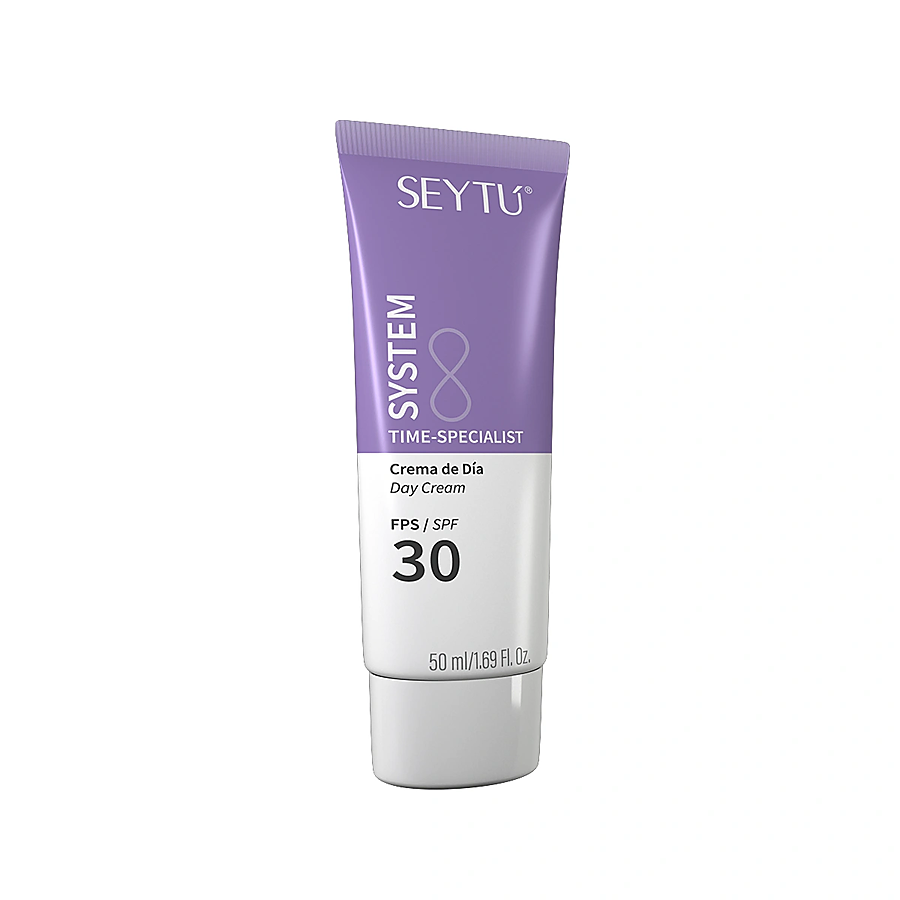
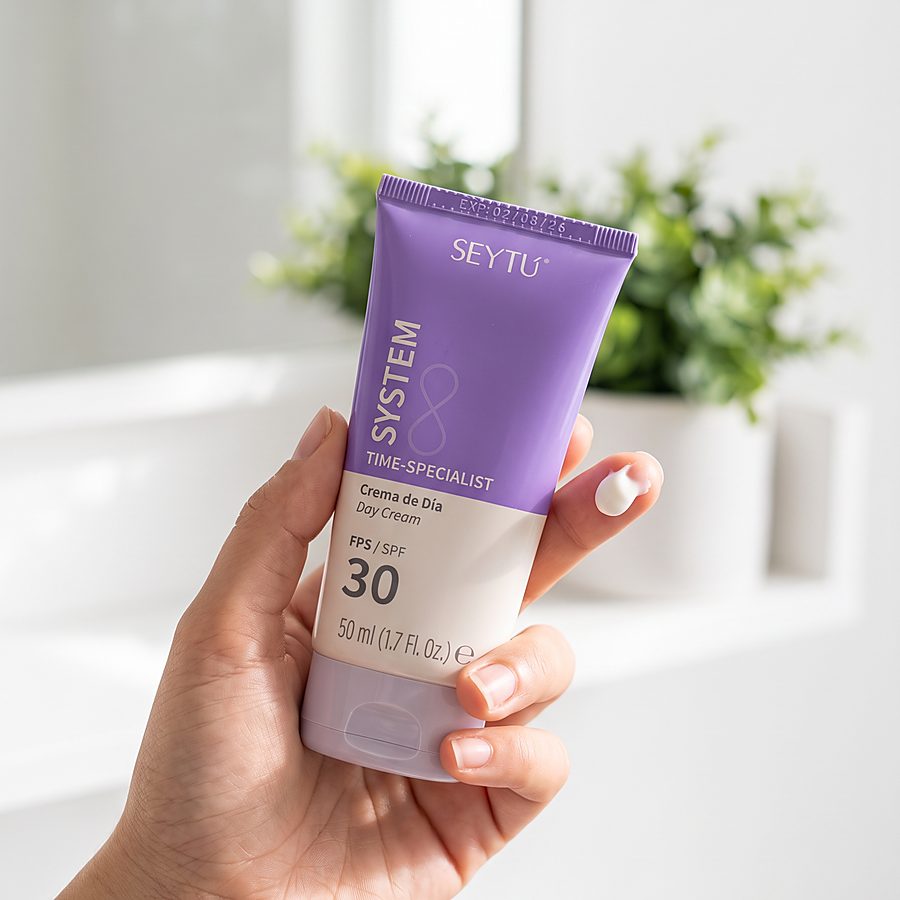
Fix 70: nuevas fotos lifestyle + rename para NACAR-08 (Seytu System Time-Specialist)
- Aclaracion previa con Carlos: las 3 fotos nuevas del tubo morado
  'SYSTEM Time-Specialist / Crema de Dia FPS 30, 50ml' correspondian a
  NACAR-08 (antes 'Dia Renovador FPS 30 Nacar'), no a NACAR-07 (Gel
  Antioxidante, 30g, sin FPS) como se menciono en el mensaje original.
  Confirmado por Carlos -- se actualiza NACAR-08 y se renombra a su nombre
  real 'Seytu System Time-Specialist' (ES/EN/FR, nombre de linea no se
  traduce, igual que los nombres de System Speciality).
- img principal: nacar-08-dia-lifestyle-espejo.webp (foto editorial con
  mano, espejo/planta de fondo) -- mismo criterio que NACAR-06 (elegir la
  foto editorial con mano como principal).
- gallery: nacar-08-dia-lifestyle-helechos.webp (mano entre helechos con
  gotas de agua) + nacar-08-dia-lifestyle-agua.webp (producto solo, fondo de
  agua). Las 3 se ven en el filmstrip del modal de detalle.
- thumb dedicado del grid (nacar-08-dia-fps30-thumb.webp) regenerado como
  900x900 lossless, center-crop de la foto principal + unsharp mask --
  mismo tratamiento que el resto del catalogo desde Fix 63/64.
- El archivo viejo nacar-08-dia-fps30-front.webp se deja intacto (sigue
  usandose en el collage de la pagina 'Sobre Renuevate'); nacar-08-dia-fps30-uso.webp
  tambien se deja en disco sin referenciar, por si se necesita despues.
  Todas las 1200px nuevas a WEBP q95 (foto real, no hay razon para lossless
  como en los thumbs -- mismo criterio de Fix 66).

diff --git a/index.html b/index.html
@@ -1512,11 +1512,11 @@ var V = {
           ingredients:["Extracto de levadura","Extracto de hoja de olivo","Extracto de arnica","Extractos de frutas silvestres","Aceite de jojoba"],
           img:"media/nacar-07-gel-abierto.webp", thumb:"media/nacar-07-gel-thumb.webp", gallery:["media/nacar-07-gel-front.webp","media/nacar-07-gel-textura.webp"],
           related:["NACAR-09"]},
-        {sku:"NACAR-08", tag:"Crema de dia", name:"Dia Renovador FPS 30 Nacar", desc:"Renueva y protege, hidratacion con FPS 30.", price:"$725 MXN",
+        {sku:"NACAR-08", tag:"Crema de dia", name:"Seytú System Time-Specialist", desc:"Renueva y protege, hidratacion con FPS 30.", price:"$725 MXN",
           longDesc:"Combate la apariencia de los principales signos de la edad, estimula la produccion de colageno y elastina y ayuda a mejorar la textura y firmeza de la piel. Con propiedades antioxidantes e hidratantes, protege la piel contra los rayos UVA/UVB. Para mejores resultados, usala junto con el resto de tu rutina Nacar. Presentacion de 50 ml.",
           usage:"Aplica cada mañana sobre el rostro limpio, como ultimo paso de tu rutina antes del maquillaje. Evita el contacto con los ojos. Reaplica en caso de exposicion solar prolongada.",
           ingredients:["Aqua (Water)","Octocrylene","Ethylhexyl Methoxycinnamate","Butyl Methoxydibenzoylmethane","Niacinamide","Neopentyl Glycol Diheptanoate","Potassium Cetyl Phosphate","Cetearyl Alcohol","Polymethylsilsesquioxane","Glycerin","Sodium Acrylates Copolymer","Bakuchiol","Tocopheryl Acetate","Hyaluronic Acid","Squalene","Triticum Vulgare/Aestivum (Wheat) Grain Extract","Helianthus Annuus (Sunflower) Seed Oil","Rosmarinus Officinalis (Rosemary) Leaf Extract","Portulaca Oleracea Extract","Lecithin","Hydrogenated Lecithin","Phenoxyethanol","Decylene Glycol","Caprylyl Glycol","Butylene Glycol","Sodium Hydroxide","Tetrasodium EDTA"],
-          img:"media/nacar-08-dia-fps30-front.webp", thumb:"media/nacar-08-dia-fps30-thumb.webp", gallery:["media/nacar-08-dia-fps30-uso.webp"],
+          img:"media/nacar-08-dia-lifestyle-espejo.webp", thumb:"media/nacar-08-dia-fps30-thumb.webp", gallery:["media/nacar-08-dia-lifestyle-helechos.webp","media/nacar-08-dia-lifestyle-agua.webp"],
           related:["NACAR-06"]},
         {sku:"NACAR-09", tag:"Protector solar", name:"Escudo Solar FPS 50+ Nacar", desc:"Toque seco, proteccion FPS 50+ para todos los dias.", price:"$390 MXN",
           longDesc:"Un protector solar facial de toque seco y absorcion inmediata, formulado con 89% de ingredientes de origen natural. Resistente al agua, libre de fragancia y clinica y dermatologicamente probado, ideal para pieles sensibles y para toda la familia. Formulado sin ingredientes daninos para los arrecifes de coral. Presentacion de 40 ml.",
@@ -1545,11 +1545,11 @@ var V = {
           ingredients:["Yeast extract","Olive leaf extract","Arnica extract","Wild berry extracts","Jojoba oil"],
           img:"media/nacar-07-gel-abierto.webp", thumb:"media/nacar-07-gel-thumb.webp", gallery:["media/nacar-07-gel-front.webp","media/nacar-07-gel-textura.webp"],
           related:["NACAR-09"]},
-        {sku:"NACAR-08", tag:"Day cream", name:"Nacar Renewing Day SPF 30", desc:"Renews and protects, hydration with SPF 30.", price:"$725 MXN",
+        {sku:"NACAR-08", tag:"Day cream", name:"Seytú System Time-Specialist", desc:"Renews and protects, hydration with SPF 30.", price:"$725 MXN",
           longDesc:"Fights the appearance of the main signs of aging, stimulates collagen and elastin production, and helps improve skin texture and firmness. With antioxidant and hydrating properties, it protects skin against UVA/UVB rays. For best results, use it alongside the rest of your Nacar routine. 50 ml.",
           usage:"Apply every morning to clean skin, as the last step of your routine before makeup. Avoid contact with the eyes. Reapply after prolonged sun exposure.",
           ingredients:["Aqua (Water)","Octocrylene","Ethylhexyl Methoxycinnamate","Butyl Methoxydibenzoylmethane","Niacinamide","Neopentyl Glycol Diheptanoate","Potassium Cetyl Phosphate","Cetearyl Alcohol","Polymethylsilsesquioxane","Glycerin","Sodium Acrylates Copolymer","Bakuchiol","Tocopheryl Acetate","Hyaluronic Acid","Squalene","Triticum Vulgare/Aestivum (Wheat) Grain Extract","Helianthus Annuus (Sunflower) Seed Oil","Rosmarinus Officinalis (Rosemary) Leaf Extract","Portulaca Oleracea Extract","Lecithin","Hydrogenated Lecithin","Phenoxyethanol","Decylene Glycol","Caprylyl Glycol","Butylene Glycol","Sodium Hydroxide","Tetrasodium EDTA"],
-          img:"media/nacar-08-dia-fps30-front.webp", thumb:"media/nacar-08-dia-fps30-thumb.webp", gallery:["media/nacar-08-dia-fps30-uso.webp"],
+          img:"media/nacar-08-dia-lifestyle-espejo.webp", thumb:"media/nacar-08-dia-fps30-thumb.webp", gallery:["media/nacar-08-dia-lifestyle-helechos.webp","media/nacar-08-dia-lifestyle-agua.webp"],
           related:["NACAR-06"]},
         {sku:"NACAR-09", tag:"Sunscreen", name:"Nacar Solar Shield SPF 50+", desc:"Dry touch, SPF 50+ protection for every day.", price:"$390 MXN",
           longDesc:"A facial sunscreen with a dry touch and instant absorption, formulated with 89% naturally-derived ingredients. Water-resistant, fragrance-free and clinically and dermatologically tested, ideal for sensitive skin and the whole family. Formulated without ingredients harmful to coral reefs. 40 ml.",
@@ -1578,11 +1578,11 @@ var V = {
           ingredients:["Extrait de levure","Extrait de feuille d'olivier","Extrait d'arnica","Extraits de fruits sauvages","Huile de jojoba"],
           img:"media/nacar-07-gel-abierto.webp", thumb:"media/nacar-07-gel-thumb.webp", gallery:["media/nacar-07-gel-front.webp","media/nacar-07-gel-textura.webp"],
           related:["NACAR-09"]},
-        {sku:"NACAR-08", tag:"Creme de jour", name:"Jour Renovateur FPS 30 Nacar", desc:"Renove et protege, hydratation avec FPS 30.", price:"$725 MXN",
+        {sku:"NACAR-08", tag:"Creme de jour", name:"Seytú System Time-Specialist", desc:"Renove et protege, hydratation avec FPS 30.", price:"$725 MXN",
           longDesc:"Combat l'apparence des principaux signes de l'age, stimule la production de collagene et d'elastine et aide a ameliorer la texture et la fermete de la peau. Avec des proprietes antioxydantes et hydratantes, elle protege la peau contre les rayons UVA/UVB. Pour de meilleurs resultats, utilisez-la avec le reste de votre routine Nacar. Format 50 ml.",
           usage:"Appliquer chaque matin sur une peau propre, comme derniere etape de votre routine avant le maquillage. Eviter le contact avec les yeux. Reappliquer en cas d'exposition prolongee au soleil.",
           ingredients:["Aqua (Water)","Octocrylene","Ethylhexyl Methoxycinnamate","Butyl Methoxydibenzoylmethane","Niacinamide","Neopentyl Glycol Diheptanoate","Potassium Cetyl Phosphate","Cetearyl Alcohol","Polymethylsilsesquioxane","Glycerin","Sodium Acrylates Copolymer","Bakuchiol","Tocopheryl Acetate","Hyaluronic Acid","Squalene","Triticum Vulgare/Aestivum (Wheat) Grain Extract","Helianthus Annuus (Sunflower) Seed Oil","Rosmarinus Officinalis (Rosemary) Leaf Extract","Portulaca Oleracea Extract","Lecithin","Hydrogenated Lecithin","Phenoxyethanol","Decylene Glycol","Caprylyl Glycol","Butylene Glycol","Sodium Hydroxide","Tetrasodium EDTA"],
-          img:"media/nacar-08-dia-fps30-front.webp", thumb:"media/nacar-08-dia-fps30-thumb.webp", gallery:["media/nacar-08-dia-fps30-uso.webp"],
+          img:"media/nacar-08-dia-lifestyle-espejo.webp", thumb:"media/nacar-08-dia-fps30-thumb.webp", gallery:["media/nacar-08-dia-lifestyle-helechos.webp","media/nacar-08-dia-lifestyle-agua.webp"],
           related:["NACAR-06"]},
         {sku:"NACAR-09", tag:"Protection solaire", name:"Bouclier Solaire FPS 50+ Nacar", desc:"Toucher sec, protection FPS 50+ au quotidien.", price:"$390 MXN",
           longDesc:"Une protection solaire visage au toucher sec et a absorption immediate, formulee avec 89% d'ingredients d'origine naturelle. Resistante a l'eau, sans parfum, testee cliniquement et dermatologiquement, ideale pour les peaux sensibles et toute la famille. Formulee sans ingredients nocifs pour les recifs coralliens. Format 40 ml.",
